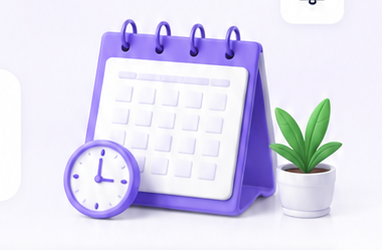
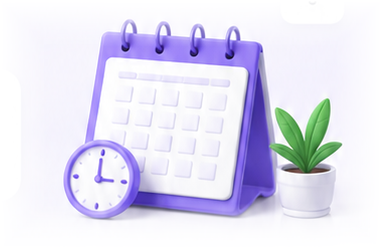
Keep the bottom bar on every screen, and finish the timetable
Two things the side-by-side made obvious.

The bar disappeared the moment anything was opened. Every screen in the designs
keeps it — Timetable, Attendance, Bus, Leave — because pushing them onto the
ROOT navigator covers it. Each tab now owns a nested Navigator, so a push lands
inside the tab: the bar stays, back unwinds the tab rather than the app, and
tapping the tab you are already on returns it to its root, which is what makes
a deep push feel safe to make.

The timetable's calendar was pinned behind the header, so it sat still while
the table slid under it and hid the child card on the way. It belongs to the
top of the CONTENT, not to the chrome, so it scrolls with the page now — in a
block tall enough to hold it, rather than a negative offset that the viewport
then clipped.

Two smaller ones from the same comparison: a subject shrinks to fit rather than
wrapping ("Mathematic / s" is worse than the same word a point smaller), and
the illustrations are feathered on all four edges. A rectangle lifted out of a
mockup carries the mockup's background with it, and against a page of a
slightly different white that rectangle reads as a pasted screenshot.

diff --git a/lib/screens/parent/timetable_screen.dart b/lib/screens/parent/timetable_screen.dart
@@ -26,22 +26,10 @@ class TimetableScreen extends StatelessWidget {
       backgroundColor: AppTheme.canvas,
       body: SafeArea(
         bottom: false,
-        // The calendar is behind the whole top of the page — the header AND the
-        // child card — which is why it cannot live inside the scroll view: a
-        // viewport clips, and half the illustration was being cut off.
-        child: Stack(
+        child: Column(
           children: [
-            PositionedDirectional(
-              end: -10,
-              top: -8,
-              child: Image.asset('assets/art/calendar_scene.png', width: 196),
-            ),
-            Column(
-              children: [
-                ScreenHeader(title: t('quick.timetable'), onBell: () {}),
-                Expanded(child: TimetableTab(child: child, showChildCard: true)),
-              ],
-            ),
+            ScreenHeader(title: t('quick.timetable'), onBell: () {}),
+            Expanded(child: TimetableTab(child: child, showChildCard: true)),
           ],
         ),
       ),
@@ -118,20 +106,34 @@ class _TimetableTabState extends State<TimetableTab> {
             // as the design has them: the child card sits ON the tint, not on
             // a white band above it.
             if (widget.showChildCard)
-              // Held to the left of the page: the calendar behind it occupies
-              // the right, and a full-width card would sit on top of it.
-              Padding(
-                padding: const EdgeInsetsDirectional.only(end: 132),
-                child: ChildCard(
-                  name: widget.child.name,
-                  // Just the code. The card is half the page here, and
-                  // "Student ID:" is four syllables of label on a line with
-                  // room for the label or the value, not both.
-                  line: '${widget.child.className}  •  ${widget.child.code}',
-                  tint: tint,
+              // The card on the left, the calendar on the right, in a block
+              // tall enough to hold the whole illustration — no negative
+              // offsets, so nothing is clipped and both scroll together.
+              SizedBox(
+                height: 118,
+                child: Stack(
+                  children: [
+                    PositionedDirectional(
+                      end: -8,
+                      top: -18,
+                      child: Image.asset('assets/art/calendar_scene.png', width: 176),
+                    ),
+                    PositionedDirectional(
+                      start: 0,
+                      end: 128,
+                      top: 8,
+                      child: ChildCard(
+                        name: widget.child.name,
+                        // Just the code. The card is half the page here, and
+                        // "Student ID:" is four syllables of label on a line
+                        // with room for the label or the value, not both.
+                        line: '${widget.child.className}  •  ${widget.child.code}',
+                        tint: tint,
+                      ),
+                    ),
+                  ],
                 ),
               ),
-            const SizedBox(height: 30),
 
             Padding(
               padding: const EdgeInsets.symmetric(horizontal: kGutter),
@@ -346,7 +348,7 @@ class _Table extends StatelessWidget {
         if (nextStart - ends >= 10) {
           rows.add(_BreakRow(from: ends, to: nextStart));
         } else {
-          rows.add(Divider(height: 1, color: AppTheme.border, indent: 62));
+          rows.add(Divider(height: 1, color: AppTheme.border, indent: 86, endIndent: 14));
         }
       }
     }
@@ -492,16 +494,25 @@ class _LessonRow extends StatelessWidget {
                         crossAxisAlignment: CrossAxisAlignment.start,
                         mainAxisAlignment: MainAxisAlignment.center,
                         children: [
-                          Text(
-                            lesson.subject,
-                            maxLines: 2,
-                            overflow: TextOverflow.ellipsis,
-                            style: TextStyle(
-                              fontSize: 12.5,
-                              fontWeight: FontWeight.w800,
-                              letterSpacing: -0.3,
-                              height: 1.2,
-                              color: AppTheme.text,
+                          // Shrunk to fit rather than wrapped: "Mathematics"
+                          // broken across two lines as "Mathematic / s" is
+                          // worse than the same word one point smaller.
+                          Align(
+                            alignment: AlignmentDirectional.centerStart,
+                            child: FittedBox(
+                              fit: BoxFit.scaleDown,
+                              alignment: AlignmentDirectional.centerStart,
+                              child: Text(
+                                lesson.subject,
+                                maxLines: 1,
+                                style: TextStyle(
+                                  fontSize: 12.5,
+                                  fontWeight: FontWeight.w800,
+                                  letterSpacing: -0.3,
+                                  height: 1.2,
+                                  color: AppTheme.text,
+                                ),
+                              ),
                             ),
                           ),
                           // The teacher's full name, as the design has it. The

diff --git a/lib/screens/parent/parent_app.dart b/lib/screens/parent/parent_app.dart
@@ -33,6 +33,11 @@ class _ParentAppState extends State<ParentApp> {
   // Held so the avatar can open the drawer: the Scaffold that owns it is
   // built by this very method, so there is no context above it to ask.
   final _scaffold = GlobalKey<ScaffoldState>();
+
+  /// One per destination, so each tab remembers where it was and the back
+  /// gesture unwinds the tab rather than the app.
+  final _navKeys = List.generate(4, (_) => GlobalKey<NavigatorState>());
+
   int _tab = 0;
   List<Child>? _children;
   String? _selectedId;
@@ -153,7 +158,20 @@ class _ParentAppState extends State<ParentApp> {
             ? t('greet.afternoon')
             : t('greet.evening');
 
-    return Scaffold(
+    return PopScope(
+      canPop: false,
+      onPopInvokedWithResult: (didPop, _) {
+        if (didPop) return;
+        final nav = _navKeys[_tab].currentState;
+        if (nav != null && nav.canPop()) {
+          nav.pop();
+        } else if (_tab != 0) {
+          setState(() => _tab = 0);
+        } else {
+          Navigator.of(context).pop();
+        }
+      },
+      child: Scaffold(
       key: _scaffold,
       backgroundColor: AppTheme.canvas,
       // The account lives behind the avatar rather than in a fourth tab. A
@@ -195,12 +213,27 @@ class _ParentAppState extends State<ParentApp> {
                       : IndexedStack(
                           index: _tab,
                           children: [
-                            HomeTab(child: child, onOpenTab: (i) => setState(() => _tab = i)),
-                            MessagesTab(onRead: () => setState(() => _unread = 0)),
-                            CalendarTab(child: child),
-                            ParentProfileTab(
-                              children: children,
-                              onOpenChild: (c) => setState(() => _selectedId = c.studentId),
+                            TabHost(
+                              navigatorKey: _navKeys[0],
+                              child: HomeTab(
+                                child: child,
+                                onOpenTab: (i) => setState(() => _tab = i),
+                              ),
+                            ),
+                            TabHost(
+                              navigatorKey: _navKeys[1],
+                              child: MessagesTab(onRead: () => setState(() => _unread = 0)),
+                            ),
+                            TabHost(
+                              navigatorKey: _navKeys[2],
+                              child: CalendarTab(child: child),
+                            ),
+                            TabHost(
+                              navigatorKey: _navKeys[3],
+                              child: ParentProfileTab(
+                                children: children,
+                                onOpenChild: (c) => setState(() => _selectedId = c.studentId),
+                              ),
                             ),
                           ],
                         ),
@@ -212,7 +245,13 @@ class _ParentAppState extends State<ParentApp> {
         items: _nav,
         index: _tab,
         tint: role.tint,
-        onChanged: (i) => setState(() => _tab = i),
+        onChanged: (i) {
+          if (i == _tab) {
+            _navKeys[i].currentState?.popUntil((r) => r.isFirst);
+          } else {
+            setState(() => _tab = i);
+          }
+        },
         // The one thing a parent DOES on this app rather than reads. Asking for
         // leave is the only action they initiate, so it is the only thing that
         // earns the raised button.
@@ -224,6 +263,7 @@ class _ParentAppState extends State<ParentApp> {
           );
         },
         badges: {1: _unread > 0},
+      ),
       ),
     );
   }

diff --git a/lib/ui/kit.dart b/lib/ui/kit.dart
@@ -1135,3 +1135,27 @@ class _MenuButton extends StatelessWidget {
     );
   }
 }
+
+
+/// A tab that can be navigated INSIDE.
+///
+/// Wraps one bottom-bar destination in its own Navigator so pushes from that
+/// tab sit under the bar instead of over it. [key] must be stable per tab —
+/// it is what lets the shell ask "can this tab go back?" before the app does.
+class TabHost extends StatelessWidget {
+  const TabHost({super.key, required this.navigatorKey, required this.child});
+
+  final GlobalKey<NavigatorState> navigatorKey;
+  final Widget child;
+
+  @override
+  Widget build(BuildContext context) {
+    return Navigator(
+      key: navigatorKey,
+      onGenerateRoute: (settings) => MaterialPageRoute(
+        settings: settings,
+        builder: (_) => child,
+      ),
+    );
+  }
+}
